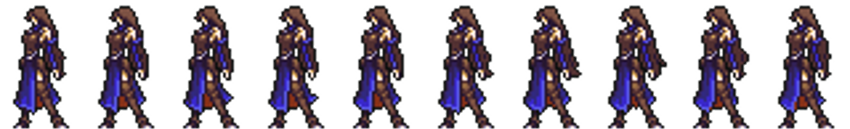
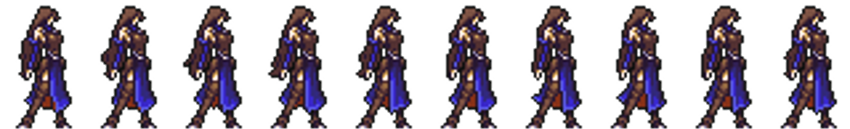
Shanoa and Keyboard using windows messages.

diff --git a/Engine/Source/Geometry/Vector.cpp b/Engine/Source/Geometry/Vector.cpp
@@ -1,5 +1,5 @@
 #include "Vector.hpp"
-
+#include "Point.hpp"
 #include <math.h>
 
 namespace Engine
@@ -27,15 +27,15 @@ namespace Engine
 		Vector Vector::operator*(double val) const { return Vector{x * val, y * val}; }
 		Vector Vector::operator/(double val) const { return Vector{x / val, y / val}; }
 
-		Vector& Vector::operator+=(const Vector& src) { x + src.x, y + src.y; return *this; }
-		Vector& Vector::operator-=(const Vector& src) { x - src.x, y - src.y; return *this; }
-		Vector& Vector::operator*=(const Vector& src) { x * src.x, y * src.y; return *this; }
-		Vector& Vector::operator/=(const Vector& src) { x / src.x, y / src.y; return *this; }
+		Vector& Vector::operator+=(const Vector& src) { x += src.x, y += src.y; return *this; }
+		Vector& Vector::operator-=(const Vector& src) { x -= src.x, y -= src.y; return *this; }
+		Vector& Vector::operator*=(const Vector& src) { x *= src.x, y *= src.y; return *this; }
+		Vector& Vector::operator/=(const Vector& src) { x /= src.x, y /= src.y; return *this; }
 
-		Vector& Vector::operator+=(double val) { x + val, y + val; return *this; }
-		Vector& Vector::operator-=(double val) { x - val, y - val; return *this; }
-		Vector& Vector::operator*=(double val) { x * val, y * val; return *this; }
-		Vector& Vector::operator/=(double val) { x / val, y / val; return *this; }
+		Vector& Vector::operator+=(double val) { x += val, y += val; return *this; }
+		Vector& Vector::operator-=(double val) { x -= val, y -= val; return *this; }
+		Vector& Vector::operator*=(double val) { x *= val, y *= val; return *this; }
+		Vector& Vector::operator/=(double val) { x /= val, y /= val; return *this; }
 
 		Vector& Vector::operator++() { ++x, ++y; return *this; }
 		Vector& Vector::operator--() { --x, --y; return *this; }
@@ -66,6 +66,11 @@ namespace Engine
 			double dx = vec.x - x;
 			double dy = vec.y - y;
 			return sqrt(dx * dx + dy * dy);
+		}
+
+		Point Vector::ToPoint() const
+		{
+			return Point(static_cast<int>(x), static_cast<int>(y));
 		}
 	}
 }

diff --git a/BoreCastle/BoreCastle.cpp b/BoreCastle/BoreCastle.cpp
@@ -1,3 +1,5 @@
+#include "Shanoa.hpp"
+
 #include <Engine.hpp>
 
 using namespace Engine::Display;
@@ -9,10 +11,17 @@ Zone* CreateTestZone(int width, int height, const Window* window);
 
 void OnKey(KeyEvent ke, void* user_data)
 {
-	if(ke.up_or_down == KeyDirection::Down)
-		Engine::MessageBox(L"KeyDown", L"OnKeyDown");
+	Shanoa* shanoa = reinterpret_cast<Shanoa*>(user_data);
+
+	if(ke.up_or_down == KeyDirection::Up)
+		shanoa->Stand();
 	else
-		Engine::MessageBox(L"KeyUp", L"OnKeyUp");
+	{
+		if(ke.key == Keys::KeyLeft)
+			shanoa->MoveLeft();
+		else if(ke.key == Keys::KeyRight)
+			shanoa->MoveRight();
+	}
 }
 
 int BoreCastleMain()
@@ -21,22 +30,34 @@ int BoreCastleMain()
 	const int height = 1080 / 2;
 
 	Window* window = Window::Create("Hello World!", width, height);
-	window->OnKeyEvent() = OnKey;
+	Shanoa shanoa({130, height - 128 + 2 - 24}, window);
+
+	window->OnKeyEvent(&shanoa) = OnKey;
 
 	Zone* zone = CreateTestZone(width, height, window);
 	Sprite sprite_energy(24, window->LoadImage(DATA_PATH "Sprite.png"), 60);
 	Sprite sprite_shanoa_stand(10, window->LoadImage(DATA_PATH "Shanoa\\shanoa_stand.png"), 10);
+	Sprite sprite_shanoa_run(6, window->LoadImage(DATA_PATH "Shanoa\\shanoa_run.png"), 10);
 
 	Point zone_offset;
+	Rate rate(60);
 
 	while(window->Update())
 	{
+		for(int i = rate.Update(); i > 0; --i)
+		{
+			shanoa.Update();
+		}
+
 		window->BeginDraw(false);
-			window->Clear({0, 0, 0x20});
+		window->Clear({0, 0, 0x20});
 			zone->RenderBackground(window);
 				sprite_energy.Draw({530, 55}, window);
 				sprite_shanoa_stand.Draw({530, height - 128 + 2 - 24}, window);
-				zone->RenderForeground(window);
+				sprite_shanoa_run.Draw({650, height - 128 + 2 - 24}, window);
+
+				shanoa.Render(window);
+			zone->RenderForeground(window);
 		window->EndDraw();
 
 		++zone_offset;

diff --git a/BoreCastle/Shanoa.cpp b/BoreCastle/Shanoa.cpp
@@ -1,0 +1,61 @@
+#include "Shanoa.hpp"
+
+Shanoa::Shanoa(const Point& position, const ImageLoader* image_loader)
+{
+	_moving = false;
+	_direction = 0;
+	_motion.SetPosition(position.ToVector());
+
+	_sprite_stand = new Sprite(10, image_loader->LoadImage("..\\..\\..\\Data\\Shanoa\\shanoa_stand.png"), 10);
+	_sprite_run = new Sprite(6, image_loader->LoadImage("..\\..\\..\\Data\\Shanoa\\shanoa_run.png"), 10);
+}
+
+Shanoa::~Shanoa()
+{
+	if(_sprite_stand)
+	{
+		delete _sprite_stand;
+		_sprite_stand = nullptr;
+	}
+
+	if(_sprite_run)
+	{
+		delete _sprite_run;
+		_sprite_run = nullptr;
+	}
+}
+
+void Shanoa::MoveLeft()
+{
+	_moving = true;
+	_direction = -1;
+	_motion.Impulse({static_cast<double>(_direction), 0.0}, 1.0);
+}
+
+void Shanoa::MoveRight()
+{
+	_moving = true;
+	_direction = 1;
+	_motion.Impulse({static_cast<double>(_direction), 0.0}, 1.0);
+}
+
+void Shanoa::Stand()
+{
+	_moving = false;
+}
+
+void Shanoa::Update()
+{
+	_motion.Update();
+}
+
+void Shanoa::Render(const Renderer* renderer) const
+{
+	Sprite* active = _moving ? _sprite_run : _sprite_stand;
+	active->Draw(_motion.Position().ToPoint(), renderer);
+}
+
+const Point& Shanoa::Position() const
+{
+	return _motion.Position().ToPoint();
+}

diff --git a/Engine/Source/Display/Window.hpp b/Engine/Source/Display/Window.hpp
@@ -2,6 +2,7 @@
 #include <stdint.h>
 #include "Color.hpp"
 #include "Image.hpp"
+#include "ImageLoader.hpp"
 #include "Renderer.hpp"
 #include "../Input/Input.hpp"
 
@@ -11,7 +12,7 @@ namespace Engine
 	{
 		using namespace Input;
 
-		class Window : public Renderer
+		class Window : public Renderer, public ImageLoader
 		{
 			public:
 			static Window* Create(const char* title, int width, int height);
@@ -25,8 +26,6 @@ namespace Engine
 			virtual bool Update() = 0;
 			virtual void Close() = 0;
 
-			virtual Image* LoadImage(const char* file) const = 0;
-
 			using OnKeyProc = void(*)(KeyEvent ke, void* userdata);
 			OnKeyProc& OnKeyEvent(void* userdata = nullptr);
 
@@ -34,7 +33,7 @@ namespace Engine
 			void OnKey(KeyEvent ke);
 
 			private:
-			struct OnKeyCallback { OnKeyProc proc; void* user_data; } _on_key{};
+			struct OnKeyCallback { OnKeyProc proc; void* userdata; } _on_key{};
 		};
 	}
 }

diff --git a/Engine/Source/Input/Keys.Win32.cpp b/Engine/Source/Input/Keys.Win32.cpp
@@ -1,0 +1,30 @@
+#include "Keys.hpp"
+
+#define WIN32_LEAN_AND_MEAN
+#include <Windows.h>
+
+namespace Engine
+{
+	namespace Input
+	{
+		unsigned int ToVirtualKeyCode(Keys key)
+		{
+			switch(key)
+			{
+				case Keys::KeyLeft: return VK_LEFT;
+				case Keys::KeyRight: return VK_RIGHT;
+				case Keys::KeyUp: return VK_UP;
+				case Keys::KeyDown: return VK_DOWN;
+				case Keys::KeyEscape: return VK_ESCAPE;
+				case Keys::KeyReturn: return VK_RETURN;
+			}
+
+			return 0;
+		}
+
+		bool GetKeyState(Keys key)
+		{
+			return ::GetAsyncKeyState(ToVirtualKeyCode(key)) != 0;
+		}
+	}
+}

diff --git a/BoreCastle/Shanoa.hpp b/BoreCastle/Shanoa.hpp
@@ -1,0 +1,29 @@
+#pragma once
+#include <Engine.hpp>
+using namespace Engine::Display;
+using namespace Engine::Geometry;
+
+class Shanoa
+{
+	bool _moving;
+	int _direction;
+	Motion _motion;
+
+	Sprite* _sprite_stand;
+	Sprite* _sprite_run;
+
+	public:
+	Shanoa(const Point& position, const ImageLoader* image_loader);
+	Shanoa(const Shanoa&) = delete;
+	Shanoa& operator=(const Shanoa&) = delete;
+	~Shanoa();
+
+	void MoveLeft();
+	void MoveRight();
+	void Stand();
+
+	void Update();
+	void Render(const Renderer* renderer) const;
+
+	const Point& Position() const;
+};

diff --git a/Engine/Source/Geometry/Point.cpp b/Engine/Source/Geometry/Point.cpp
@@ -1,4 +1,5 @@
 #include "Point.hpp"
+#include "Vector.hpp"
 
 namespace Engine
 {
@@ -37,5 +38,10 @@ namespace Engine
 		Point& Point::operator--() { --x, --y; return *this; }
 		Point Point::operator++(int) { Point result(*this); ++x, ++y; return result; }
 		Point Point::operator--(int) { Point result(*this); --x, --y; return result; }
+
+		Vector Point::ToVector() const
+		{
+			return Vector(static_cast<double>(x), static_cast<double>(y));
+		}
 	}
 }

diff --git a/Engine/Source/Display/SDL/InputSDL.cpp b/Engine/Source/Display/SDL/InputSDL.cpp
@@ -24,7 +24,7 @@ namespace Engine
 				case SDLK_UP: ke.key = Keys::KeyUp; break;
 				case SDLK_DOWN: ke.key = Keys::KeyDown; break;
 				case SDLK_ESCAPE: ke.key = Keys::KeyEscape; break;
-				case SDLK_RETURN: ke.key = Keys::KeyEnter; break;
+				case SDLK_RETURN: ke.key = Keys::KeyReturn; break;
 			}
 
 			if(sdl_keysym.mod | KMOD_LSHIFT || sdl_keysym.mod | KMOD_RSHIFT) ke.mod |= KeyMod_Shift;

diff --git a/Engine/Source/Display/Window.cpp b/Engine/Source/Display/Window.cpp
@@ -14,13 +14,14 @@ namespace Engine
 
 		Window::OnKeyProc& Window::OnKeyEvent(void* userdata)
 		{
+			_on_key.userdata = userdata;
 			return _on_key.proc;
 		}
 
 		void Window::OnKey(KeyEvent ke)
 		{
 			if(_on_key.proc)
-				_on_key.proc(ke, _on_key.user_data);
+				_on_key.proc(ke, _on_key.userdata);
 		}
 	}
 }

diff --git a/Engine/Source/Geometry/Vector.hpp b/Engine/Source/Geometry/Vector.hpp
@@ -4,6 +4,8 @@ namespace Engine
 {
 	namespace Geometry
 	{
+		struct Point;
+
 		struct Vector
 		{
 			static const double EPSILON;
@@ -47,6 +49,8 @@ namespace Engine
 			Vector& EpsilonZero();
 			Vector& Normalize();
 			double Distance(const Vector& vec) const;
+
+			Point ToPoint() const;
 		};
 	}
 }

diff --git a/Engine/Source/Geometry/Point.hpp b/Engine/Source/Geometry/Point.hpp
@@ -4,6 +4,8 @@ namespace Engine
 {
 	namespace Geometry
 	{
+		struct Vector;
+
 		struct Point
 		{
 			int x, y;
@@ -41,6 +43,8 @@ namespace Engine
 			Point& operator--();
 			Point operator++(int);
 			Point operator--(int);
+
+			Vector ToVector() const;
 		};
 	}
 }

diff --git a/Engine/Source/Input/Keys.hpp b/Engine/Source/Input/Keys.hpp
@@ -12,7 +12,7 @@ namespace Engine
 			KeyDown,
 
 			KeyEscape,
-			KeyEnter
+			KeyReturn
 		};
 
 		const unsigned int KeyMod_Shift = 0x1;
@@ -31,5 +31,7 @@ namespace Engine
 			Keys key;
 			unsigned int mod;
 		};
+
+		bool GetKeyState(Keys key);
 	}
 }
